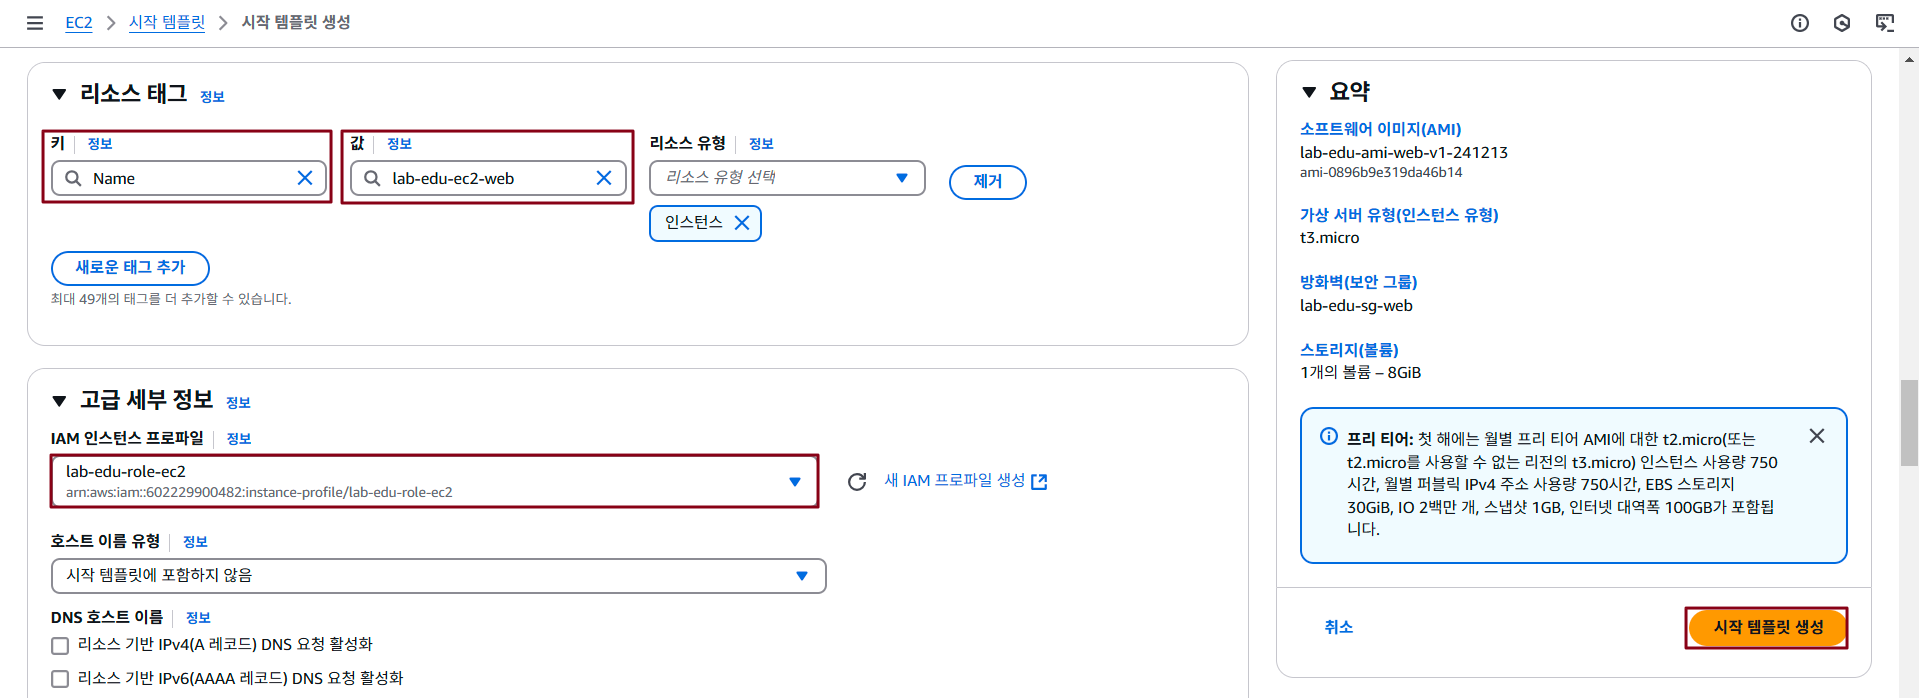
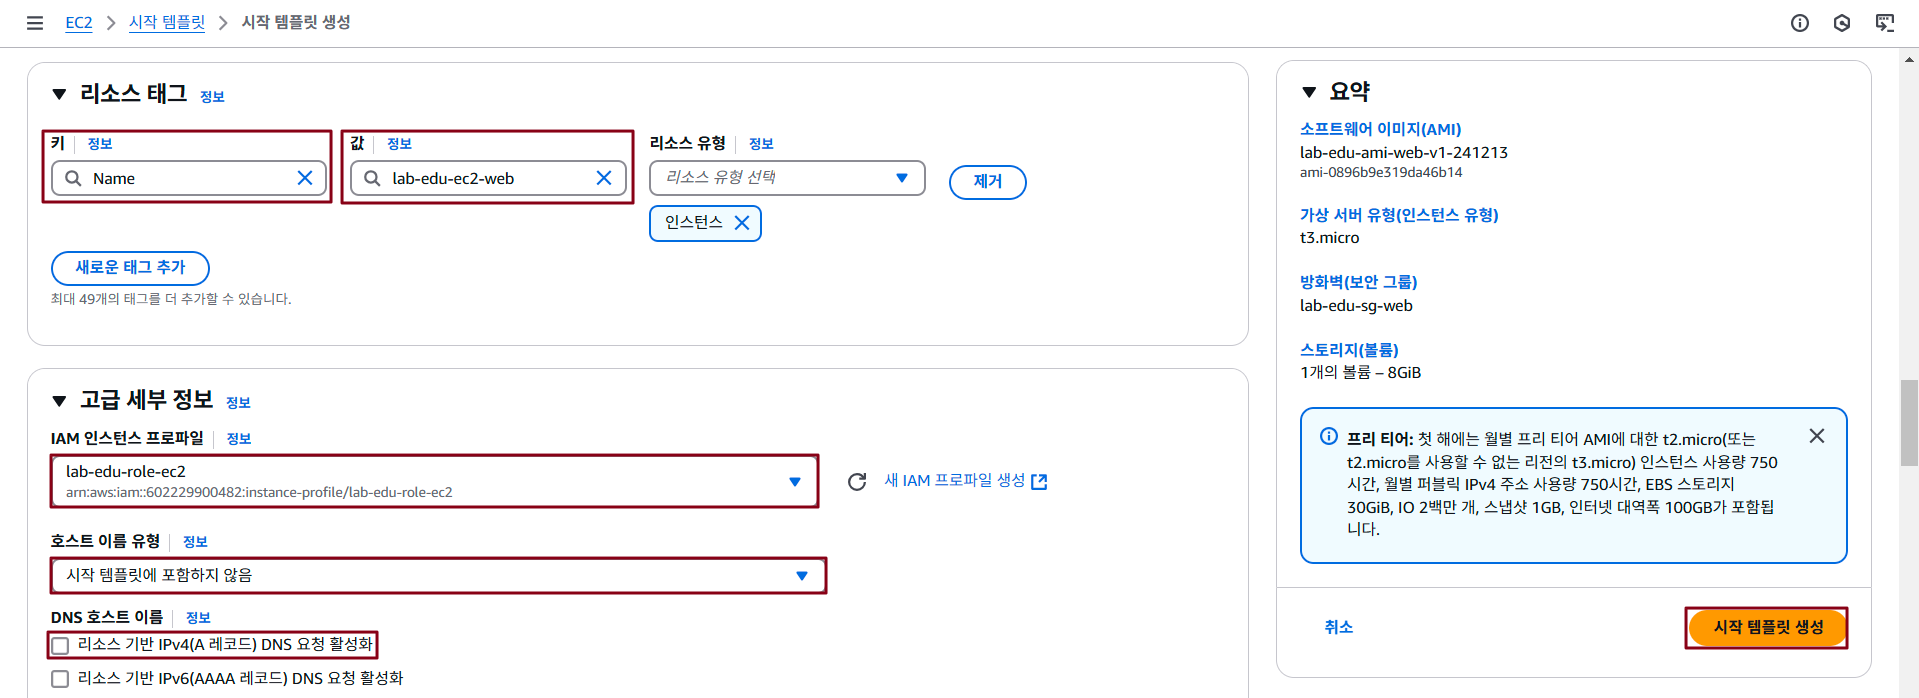
update auto scaling

Changed region(s): [[0.0307, 0.8424, 0.4304, 0.8725], [0.0307, 0.7822, 0.4304, 0.8123], [0.0307, 0.9026, 0.2152, 0.9628]]

diff --git a/04. Compute Service - Auto Scaling/Auto Scaling.md b/04. Compute Service - Auto Scaling/Auto Scaling.md
@@ -1,8 +1,33 @@
 ## AMI(Amazon Machine Image) 생성 및 EC2 생성
 
-<!-- NOTE:: 여기에 rc.local 파일 설정하는 내용 추가하기 -->
+### 1. Web Application 자동 재실행 설정
 
-### 1. Web Server AMI 생성
+> 시스템이 재부팅 되어도 자동으로 재실행 될 수 있도록 system deamon 설정
+
+#### 1.1 Web Server 접속
+
+- VS Code Terminal에서 ssh 명령을 통해 Web Server 접속
+
+    ```bash
+    ssh web-server
+    ```
+
+#### 1.2 rc.local 파일 설정 스크립트 실행
+
+- `streamlit-project` 폴더 이동
+
+    ```bash
+    cd /root/streamlit-project
+    ```
+
+- `setting_rc-local.sh` 파일 스크립트 실행
+
+    ```bash
+    sh scripts/setting_rc-local.sh
+    ```
+
+
+### 2. Web Server AMI 생성
 
 - **EC2 콘솔 메인 화면 → `인스턴스 리소스` 탭 → `lab-edu-ec2-web` 선택 → `작업` → `이미지 및 템플릿` → `이미지 생성` 클릭**
 
@@ -63,6 +88,10 @@
         - Value: lab-edu-ec2-web
 
     - `고급 세부 정보` 확장 → IAM 인스턴스 프로파일: `lab-edu-role-ec2`
+
+    - `호스트 이름 유형` → `IP 이름` 선택
+
+    - `리소스 기반 IPv4(A레코드) DNS 요청 활성화` 선택
 
     - `시작 템플릿 생성` 버튼 클릭
 
